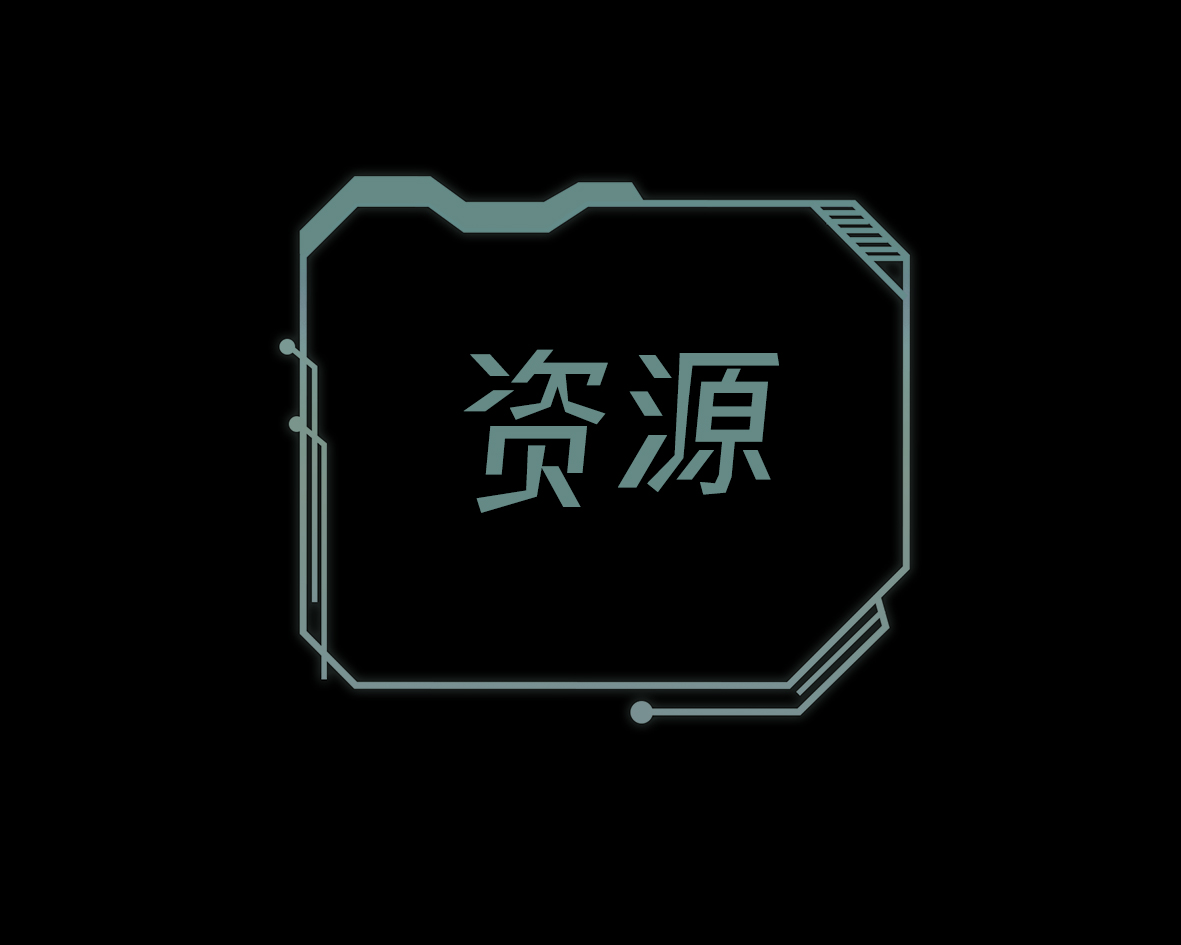
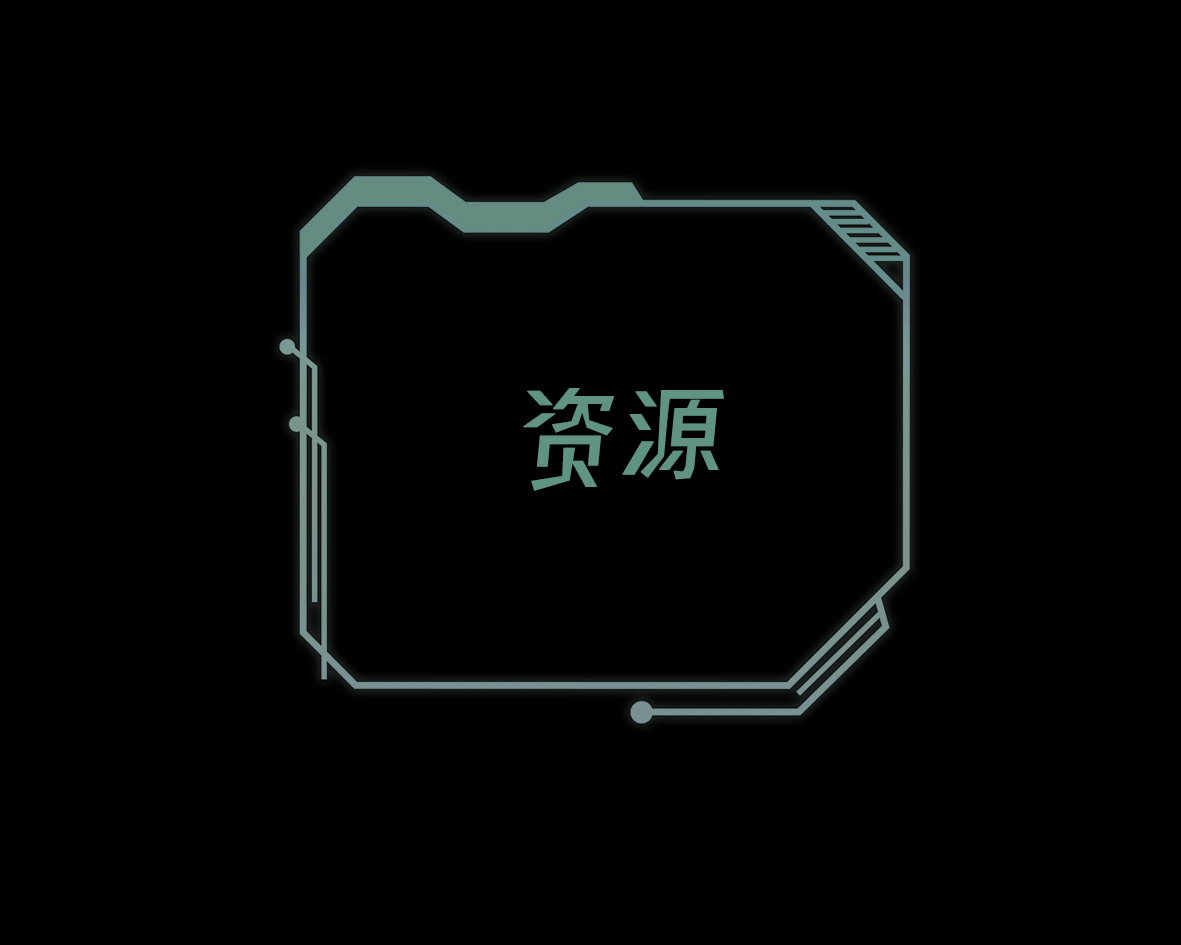
增加了页面内跳转，修改了图片、部分文字内容

Changed region(s): [[0.3963, 0.3683, 0.6706, 0.5524]]

diff --git a/font-end/src/App.vue b/font-end/src/App.vue
@@ -17,17 +17,17 @@
             </div>
 
             <v-spacer></v-spacer>
-            <v-btn text>
-                <span class="mr-2">首页</span>
+            <v-btn href="#reaDirection" text>
+                <span class="mr-2">研究方向</span>
+            </v-btn>
+            <v-btn href="#reaTeam" text>
+                <span class="mr-2">研究团队</span>
+            </v-btn>
+            <v-btn href="#talTraining" text>
+                <span class="mr-2">人才培养</span>
             </v-btn>
             <v-btn text>
-                <span class="mr-2">人工智能</span>
-            </v-btn>
-            <v-btn text>
-                <span class="mr-2">业务咨询</span>
-            </v-btn>
-            <v-btn text>
-                <span class="mr-2">了解更多</span>
+                <span class="mr-2">FinTech4Good</span>
             </v-btn>
         </v-app-bar>
         <v-content class="page">
@@ -82,13 +82,14 @@
                     </div>
                     <div class="detail-image">
                         <div style="margin-left: 30px;display: inline-block;"/>
-                        未来已来，智慧把握。南京大学普惠•三农金融科技创新研究中心，依托于南京大学优质的学术资源，力图打造基于区块链可信大数据人工智能的下一代金融经济社会基础设施架构和融合计算范式。同时，我们怀着时代赋予的使命感，希望通过区块链、大数据、人工智能驱动金融经济社会创新，把学术研究写在祖国大地上。
+                        未来已来，智慧把握。南京大学普惠•三农金融科技创新研究中心，依托于南京大学优质的学术资源，打造基于区块链可信大数据人工智能的下一代金融经济社会基础设施架构和融合计算范式。同时，我们怀着时代赋予的使命感，希望通过区块链、大数据、人工智能驱动金融经济社会创新，把学术研究写在祖国大地上。
                     </div>
                 </div>
             </div>
             <!--   轮播图   -->
+			<div id="reaDirection"></div>
             <div style="text-align: center">
-                <img
+                <img 
                         :src="require('./assets/title.png')"
                         contain
                         width="20%"
@@ -113,14 +114,15 @@
                 <div style="margin-top: 20px;text-align: center;font-size: 20px;">{{options[swiperIndex].content}}</div>
             </div>
             <!--   研究团队   -->
-            <div style="text-align: center;margin-top: 100px">
+			<div id="reaTeam"></div>
+            <div  style="text-align: center;margin-top: 100px">
                 <img
                         :src="require('./assets/title2.png')"
                         contain
                         width="20%"
                 />
             </div>
-            <div style="width: 100%;text-align: center">
+            <div  style="width: 100%;text-align: center">
                 <div>
                     <v-card dark width="25%" style="margin-left: 2.5%; display: inline-block">
                         <v-card-title class="lighten-2" style="background-color: #188872;">
@@ -131,7 +133,7 @@
                         </v-card-title>
                         <v-container>
                             <v-row>
-                                <v-col>
+                                <v-col style="font-size: large;">
                                     挪威工程院院士、IEEE(电子电气工程师协会)区块链联合主席（2018）、IEEE云计算协会主席（2017-2019）、
                                     联合国工业发展组织中挪创新中心主任、欧洲ICT标准顾问，
                                     担任中国科学院海外评审专家、中国计算机学会顾问等职，被誉为国际顶尖的计算机领域专家。
@@ -148,7 +150,7 @@
                         </v-card-title>
                         <v-container>
                             <v-row>
-                                <v-col>
+                                <v-col style="font-size: large;">
                                     美国数理统计学院院士，台湾中央研究院院士，美国统计学会会士。美国斯坦福大学统计系教授、统计系原系主任，
                                     斯坦福金融工程学院计算和数学工程研究所荣誉院士，斯坦福金融数学工程、金融与风险建模研究所主管。
                                     1983年获国际统计学界COPSS奖(被视为国际统计学“诺贝尔”奖)，系该奖首位华人得主。已出版学术专著10余部，
@@ -166,7 +168,7 @@
                         </v-card-title>
                         <v-container>
                             <v-row>
-                                <v-col>
+                                <v-col style="font-size: large;">
                                     曾师从斯坦福大学先进金融科技实验室主任，获经济金融博士学位、统计学博士学位（辅），并有在摩根大通、摩根斯坦利、
                                     全球顶尖对冲基金城堡对冲基金公司等世界金融名企的工作经历，长期致力于大数据人工智能金融科技的理论积累和实战探索。
                                     在UTDallas Top 24期刊上发表过数篇论文，其中一篇引用数在同期刊同年论文中排名第一，十年论文中排前2.4%。
@@ -183,13 +185,13 @@
                         fill-dot
                         right
                 >
-                    <v-card style="margin-right: 100px">
+                    <v-card style="margin-right: 140px">
                         <v-card-title class="purple lighten-2">
                             <h2 class="display-1 white--text font-weight-light">区块链实验室</h2>
                         </v-card-title>
                         <v-container>
                             <v-row>
-                                <v-col cols="12">
+                                <v-col >
                                     区块链涉及数学、密码学、互联网和计算机编程等很多科学技术问题。从应用视角来看，简单来说，区块链是一个分布式的共享账本和数据库，具有去中心化、不可篡改、全程留痕、可以追溯、集体维护、公开透明等特点。
                                 </v-col>
                             </v-row>
@@ -203,7 +205,7 @@
                         small
                         left
                 >
-                    <v-card style="margin-left: 100px">
+                    <v-card style="margin-left: 140px">
                         <v-card-title class="red lighten-2">
                             <h2 class="display-1 white--text font-weight-light" style="width: 100%;text-align: right">
                                 人工智能实验室</h2>
@@ -223,7 +225,7 @@
                         fill-dot
                         right
                 >
-                    <v-card style="margin-right: 100px">
+                    <v-card style="margin-right: 140px">
                         <v-card-title class="green lighten-2">
                             <h2 class="display-1 white--text font-weight-light">大数据实验室</h2>
                         </v-card-title>
@@ -243,7 +245,7 @@
                         small
                         left
                 >
-                    <v-card style="margin-left: 100px">
+                    <v-card style="margin-left: 140px">
                         <v-card-title class="blue lighten-2">
                             <h2 class="display-1 white--text font-weight-light" style="width: 100%;text-align: right">
                                 FinTech4Good工作部</h2>
@@ -260,7 +262,7 @@
                 </v-timeline-item>
             </v-timeline>
             <!--   模块介绍   -->
-            <v-img
+            <v-img id="talTraining"
                     src="./assets/人才培养/title.png"
                     style="width: 30%;margin-left: 35%"
                     contain
@@ -522,7 +524,7 @@
             ],
             humans: [
                 {
-                    title: "金融+科技创新创业人才培养",
+                    title: "创新金融+科技人才培养",
                     content: "南京大学普惠•三农金融科技创新研究中心将以培养跨学科交叉融合的人才为目标，开展更多的教学创新，希望培养一批真正既热爱金融、也热爱科技的优秀人才。从华尔街2008年危机之后来看，金融和科技的融合是大趋势。金融（经济和社会也是一样）的发展可以通过技术来驱动，因此金融人才要懂技术；而技术人才也要懂金融，那样才能对金融的内在规律特别是风险有一颗敬畏之心。而且要用金融+科技武装他们的头脑，解决金融、经济、社会痛点问题，为祖国经济社会进步服务。"
                 },
                 {
